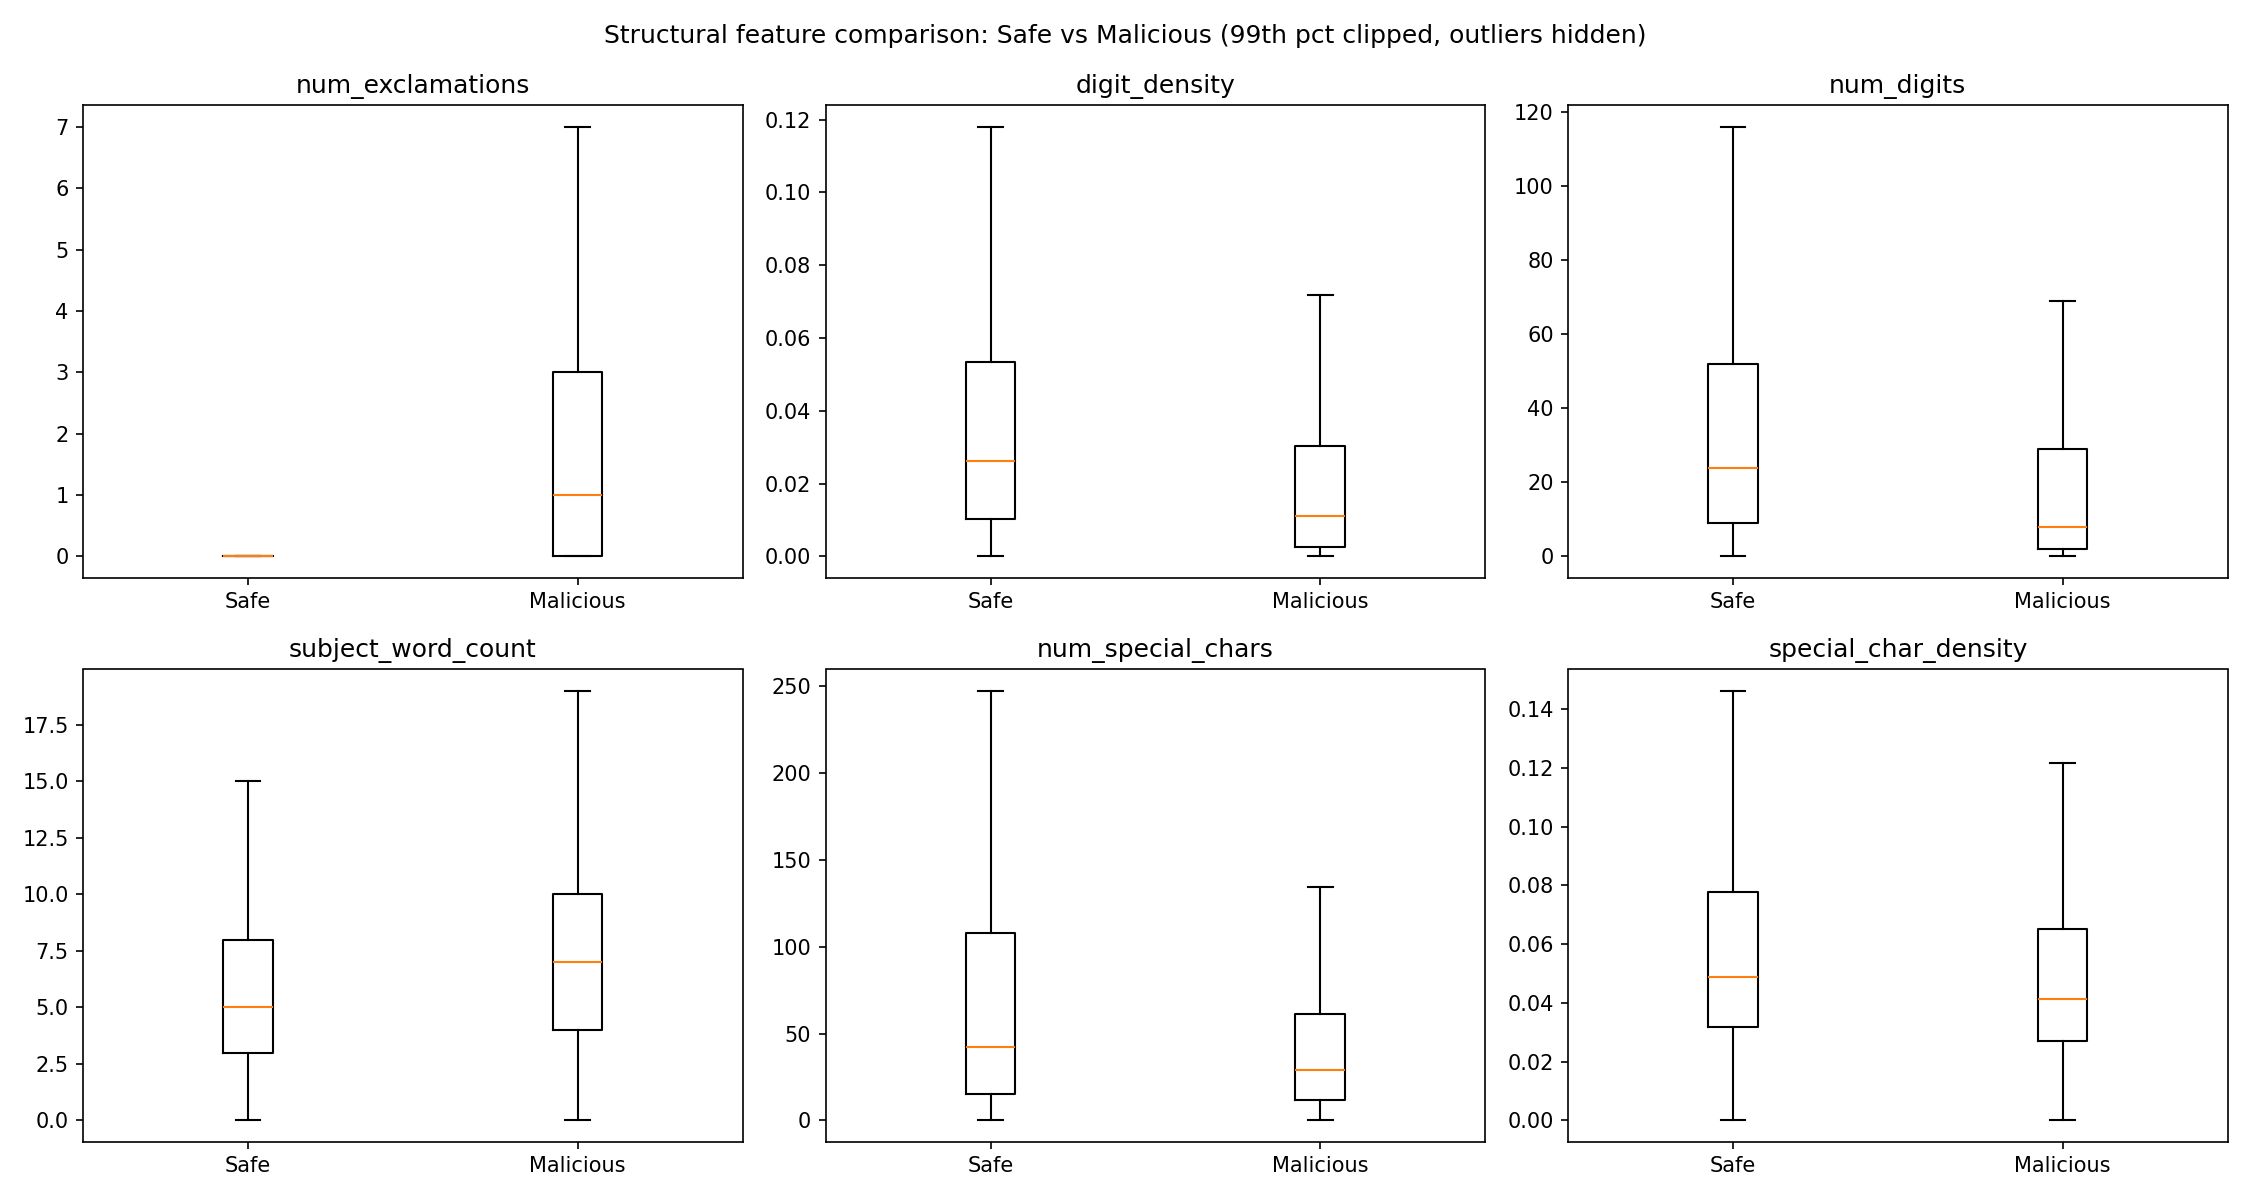
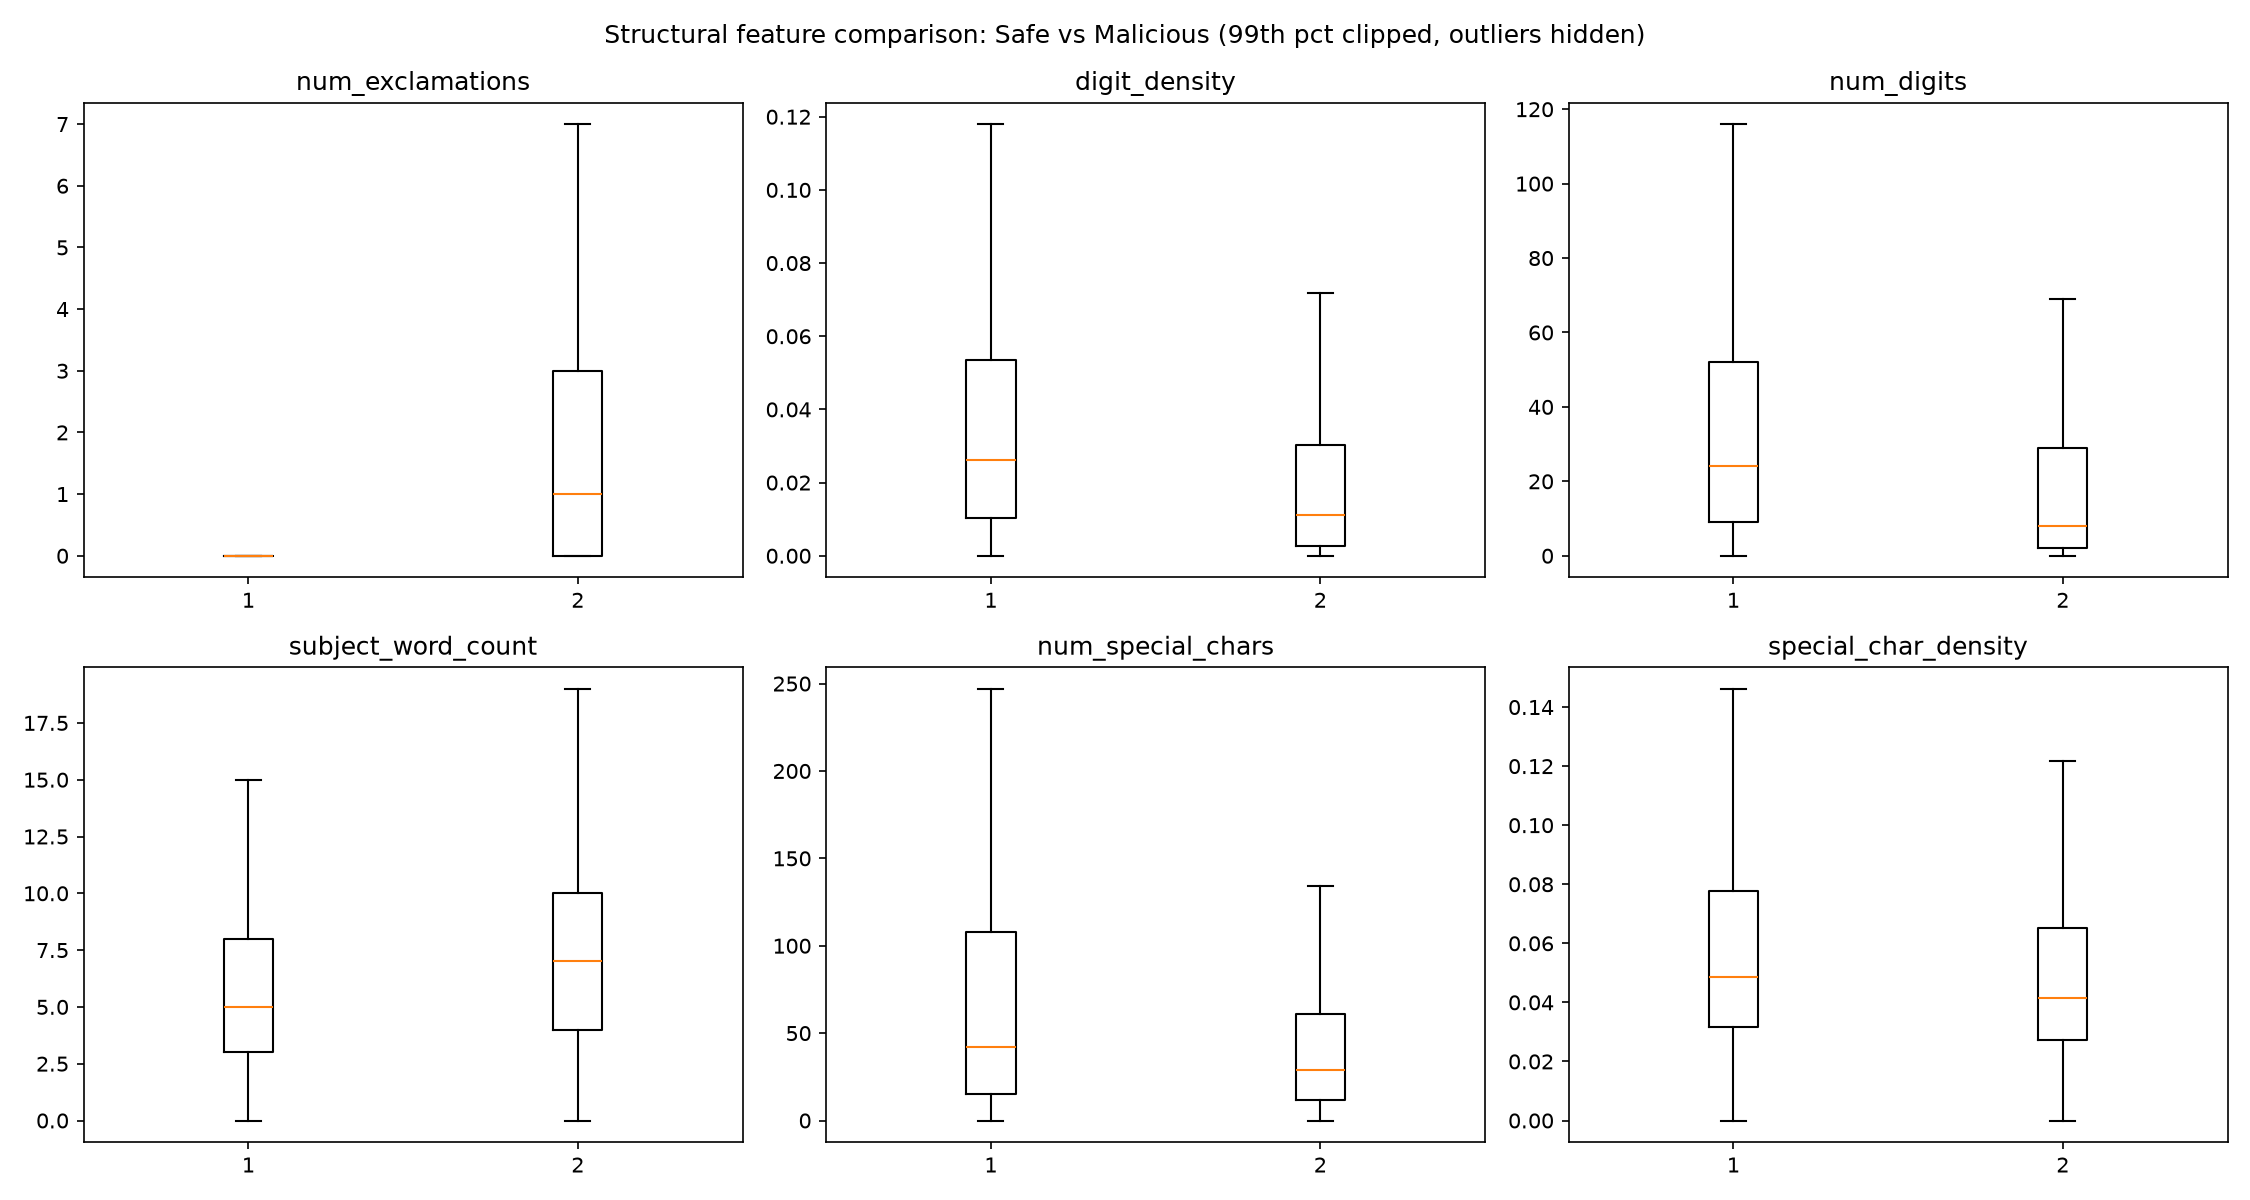
fix: typo in text_mining.py causing exception

diff --git a/src/text_mining.py b/src/text_mining.py
@@ -66,7 +66,7 @@ def plot_structural_feature_comparisons(df: pd.DataFrame, top_n: int = 6, stats_
 
         clip = np.nanpercentile(np.concatenate(data), 99)
         data_clipped = [np.clip(d, None, clip) for d in data]
-        ax.boxplot(data_clipped, labels=["Safe", "Malicious"], showfliers=False)
+        ax.boxplot(data_clipped, label=["Safe", "Malicious"], showfliers=False)
         ax.set_title(feat)
     for ax in axes[len(feats):]:
         ax.axis("off")
